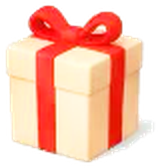
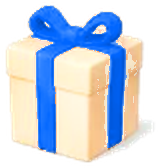
fix: 解决相似雪人与礼盒果酱视觉混淆问题，重绘黄帽雪人、红白条纹礼盒与蓝带白礼盒 (v1.1.1)

Changed region(s): [[0.1562, 0.0298, 0.875, 0.9226], [0.8125, 0.5655, 0.8438, 0.625], [0.5938, 0.506, 0.625, 0.5655]]

diff --git a/app.js b/app.js
@@ -3,7 +3,7 @@
   'use strict';
 
   // Game Application Version
-  const APP_VERSION = '1.1.0';
+  const APP_VERSION = '1.1.1';
 
   // 1. High-Resolution 3D Rendered Item Assets (Extracted directly from sprite sheet)
   const ITEMS = {
@@ -12,14 +12,14 @@
     gift_pouch: { id: 'gift_pouch', name: '圣诞福袋', img: './assets/items/gift_pouch.png' },
     gnome: { id: 'gnome', name: '圣诞矮人', img: './assets/items/gnome.png' },
     reindeer: { id: 'reindeer', name: '圣诞麋鹿', img: './assets/items/reindeer.png' },
-    snowman_blue: { id: 'snowman_blue', name: '蓝帽雪人', img: './assets/items/snowman_blue.png' },
+    snowman_yellow: { id: 'snowman_yellow', name: '黄帽雪人', img: './assets/items/snowman_yellow.png' },
     stocking: { id: 'stocking', name: '圣诞长袜', img: './assets/items/stocking.png' },
     xmas_pudding: { id: 'xmas_pudding', name: '圣诞布丁', img: './assets/items/xmas_pudding.png' },
     xmas_tree: { id: 'xmas_tree', name: '梦幻圣诞树', img: './assets/items/xmas_tree.png' },
     cookie_bucket: { id: 'cookie_bucket', name: '雪花饼干罐', img: './assets/items/cookie_bucket.png' },
     gift_green: { id: 'gift_green', name: '翠绿礼盒', img: './assets/items/gift_green.png' },
-    gift_white: { id: 'gift_white', name: '雪白礼盒', img: './assets/items/gift_white.png' },
-    gift_striped: { id: 'gift_striped', name: '条纹礼盒', img: './assets/items/gift_striped.png' },
+    gift_white: { id: 'gift_white', name: '蓝带白礼盒', img: './assets/items/gift_white.png' },
+    gift_striped: { id: 'gift_striped', name: '红白条纹礼盒', img: './assets/items/gift_striped.png' },
     gift_yellow: { id: 'gift_yellow', name: '暖黄礼盒', img: './assets/items/gift_yellow.png' },
     nutcracker: { id: 'nutcracker', name: '胡桃夹子士兵', img: './assets/items/nutcracker.png' },
     bell: { id: 'bell', name: '圣诞金铃', img: './assets/items/bell.png' },
@@ -50,7 +50,7 @@
     lemon_soda: { id: 'lemon_soda', name: '柠檬果汁汽水', img: './assets/items/lemon_soda.png' },
     grape_soda: { id: 'grape_soda', name: '紫葡萄果汁', img: './assets/items/grape_soda.png' },
     jam_carrot: { id: 'jam_carrot', name: '蜜橙胡萝卜酱', img: './assets/items/jam_carrot.png' },
-    jam_berry: { id: 'jam_berry', name: '蔓越莓果酱', img: './assets/items/jam_berry.png' },
+    jam_berry: { id: 'jam_berry', name: '蓝莓鲜果酱', img: './assets/items/jam_berry.png' },
     jam_peach: { id: 'jam_peach', name: '黄桃蜂蜜酱', img: './assets/items/jam_peach.png' },
     jam_lime: { id: 'jam_lime', name: '清甜青柠酱', img: './assets/items/jam_lime.png' },
     pudding_blue: { id: 'pudding_blue', name: '蓝莓慕斯桶', img: './assets/items/pudding_blue.png' },

diff --git a/src/items.js b/src/items.js
@@ -5,14 +5,14 @@ export const ITEMS = {
   gift_pouch: { id: 'gift_pouch', name: '圣诞福袋', img: './assets/items/gift_pouch.png' },
   gnome: { id: 'gnome', name: '圣诞矮人', img: './assets/items/gnome.png' },
   reindeer: { id: 'reindeer', name: '圣诞麋鹿', img: './assets/items/reindeer.png' },
-  snowman_blue: { id: 'snowman_blue', name: '蓝帽雪人', img: './assets/items/snowman_blue.png' },
+  snowman_yellow: { id: 'snowman_yellow', name: '黄帽雪人', img: './assets/items/snowman_yellow.png' },
   stocking: { id: 'stocking', name: '圣诞长袜', img: './assets/items/stocking.png' },
   xmas_pudding: { id: 'xmas_pudding', name: '圣诞布丁', img: './assets/items/xmas_pudding.png' },
   xmas_tree: { id: 'xmas_tree', name: '梦幻圣诞树', img: './assets/items/xmas_tree.png' },
   cookie_bucket: { id: 'cookie_bucket', name: '雪花饼干罐', img: './assets/items/cookie_bucket.png' },
   gift_green: { id: 'gift_green', name: '翠绿礼盒', img: './assets/items/gift_green.png' },
-  gift_white: { id: 'gift_white', name: '雪白礼盒', img: './assets/items/gift_white.png' },
-  gift_striped: { id: 'gift_striped', name: '条纹礼盒', img: './assets/items/gift_striped.png' },
+  gift_white: { id: 'gift_white', name: '蓝带白礼盒', img: './assets/items/gift_white.png' },
+  gift_striped: { id: 'gift_striped', name: '红白条纹礼盒', img: './assets/items/gift_striped.png' },
   gift_yellow: { id: 'gift_yellow', name: '暖黄礼盒', img: './assets/items/gift_yellow.png' },
   nutcracker: { id: 'nutcracker', name: '胡桃夹子士兵', img: './assets/items/nutcracker.png' },
   bell: { id: 'bell', name: '圣诞金铃', img: './assets/items/bell.png' },
@@ -43,7 +43,7 @@ export const ITEMS = {
   lemon_soda: { id: 'lemon_soda', name: '柠檬果汁汽水', img: './assets/items/lemon_soda.png' },
   grape_soda: { id: 'grape_soda', name: '紫葡萄果汁', img: './assets/items/grape_soda.png' },
   jam_carrot: { id: 'jam_carrot', name: '蜜橙胡萝卜酱', img: './assets/items/jam_carrot.png' },
-  jam_berry: { id: 'jam_berry', name: '蔓越莓果酱', img: './assets/items/jam_berry.png' },
+  jam_berry: { id: 'jam_berry', name: '蓝莓鲜果酱', img: './assets/items/jam_berry.png' },
   jam_peach: { id: 'jam_peach', name: '黄桃蜂蜜酱', img: './assets/items/jam_peach.png' },
   jam_lime: { id: 'jam_lime', name: '清甜青柠酱', img: './assets/items/jam_lime.png' },
   pudding_blue: { id: 'pudding_blue', name: '蓝莓慕斯桶', img: './assets/items/pudding_blue.png' },

diff --git a/index.html b/index.html
@@ -142,7 +142,7 @@
     <div id="modal-pause" class="modal-overlay">
       <div class="modal-card">
         <h2>游戏暂停</h2>
-        <div class="modal-version-badge" id="pause-modal-version">版本号：v1.1.0</div>
+        <div class="modal-version-badge" id="pause-modal-version">版本号：v1.1.1</div>
         <p class="modal-desc">
           <strong>收纳小技巧：</strong><br>
           • 凑齐 3 个相同物品放在同一格可消除<br>
